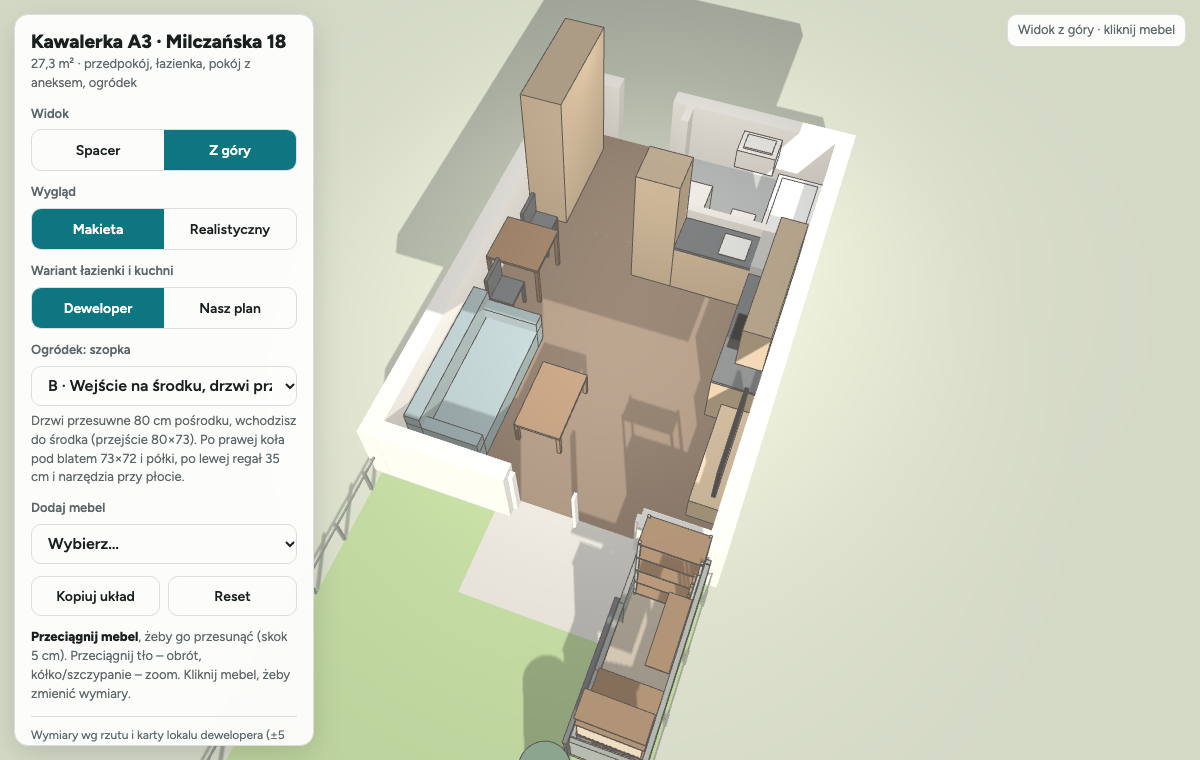
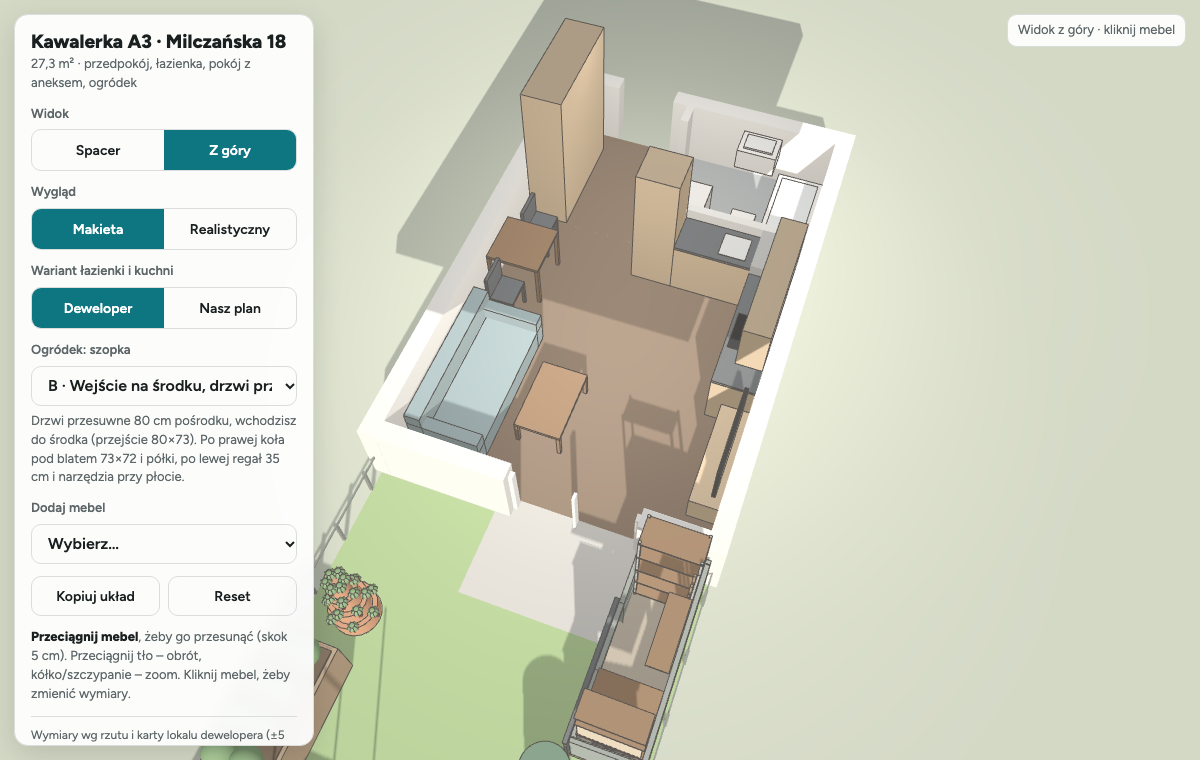
Dodaj wgrywanie układu

Changed region(s): [[0.1542, 0.7263, 0.3392, 1.0]]

diff --git a/index.html b/index.html
@@ -40,6 +40,7 @@ button:focus-visible,select:focus-visible,input:focus-visible{outline:2px solid 
 #toggle{display:none}
 #hud{position:fixed;right:14px;top:14px;background:var(--panel);border:1px solid var(--line);border-radius:10px;padding:6px 10px;font-size:13px;color:var(--mut);pointer-events:none}
 #copybox{display:none;width:100%;height:90px;font:12px monospace;margin-top:8px}
+#pastetxt{width:100%;height:90px;font:12px monospace;margin-top:8px;box-sizing:border-box}
 @media(max-width:700px){
  #panel{left:0;right:0;top:auto;bottom:0;width:auto;max-height:60%;border-radius:14px 14px 0 0;transform:translateY(calc(100% - 56px));transition:transform .25s}
  #panel.open{transform:none}
@@ -85,8 +86,12 @@ button:focus-visible,select:focus-visible,input:focus-visible{outline:2px solid 
   </div>
   <div class="row"><button class="b" id="sRot">Obróć 90°</button><button class="b" id="sDel">Usuń</button></div>
  </div>
- <div class="row" style="margin-top:12px"><button class="b" id="copy">Kopiuj układ</button><button class="b" id="reset">Reset</button></div>
+ <div class="row" style="margin-top:12px"><button class="b" id="copy">Kopiuj układ</button><button class="b" id="paste">Wklej układ</button><button class="b" id="reset">Reset</button></div>
+ <div class="row" style="margin-top:8px"><button class="b" id="dl">Pobierz plik układu</button><button class="b" id="ul">Wczytaj plik</button></div>
+ <input type="file" id="ulf" accept=".json,application/json" hidden>
  <textarea id="copybox" readonly aria-label="Układ do skopiowania"></textarea>
+ <div id="pasteBox" hidden><textarea id="pastetxt" placeholder="Wklej tu skopiowany układ (Ctrl+V / Cmd+V) i kliknij Zastosuj" aria-label="Układ do wklejenia"></textarea>
+  <div class="row" style="margin-top:6px"><button class="b" id="pasteOk">Zastosuj</button><button class="b" id="pasteNo">Anuluj</button></div></div>
  <p class="help" id="help"></p>
  <p class="note">Wymiary wg rzutu i karty lokalu dewelopera (±5 cm). Wysokość 2,55 m (podana przez właścicieli) – do potwierdzenia po odbiorze. Ścianki działowe i meble poglądowo; nie sprawdza konstrukcji.</p>
 </div>
@@ -206,7 +211,7 @@ R('nLu','Lustro 60×80','mirror',2.85,3.45,0,.02,.8,0xc9d6dc,'nasz');DEFAULT[DEF
 R('nDr','Grzejnik drabinkowy 50×125','ladder',3.59,4.09,0,.05,1.25,0xf4f4f2,'nasz');DEFAULT[DEFAULT.length-1].y=1.15; // 115 cm nad podłogą, 16 cm od prawej ściany
 // ogródek: wąska szopka 85×240 przy płocie sąsiada i elewacji, po LEWEJ po wyjściu na taras (zmiana 22.11.2026; wcześniej 160×200 po prawej)
 // między ościeżnicą drzwi tarasowych (x 3,42) a płotem (x 4,40) jest ok. 95 cm. Bez wchodzenia do środka – wszystko dostępne od frontu przez dwie pary drzwi.
-// rot 180: lokalne −x (wysoka ściana, 2,20) = przy płocie, dach spada na nasz ogródek (front 2,00), rynna + beczka od strony ogrodu.
+// rot 180: lokalne −x (wysoka ściana, 2,20) = przy płocie, dach spada na nasz ogródek (front 2,00), rynna od strony ogrodu.
 // pole doors: [z0,z1,'double'] w układzie lokalnym od krawędzi z0 – przy rot 180 liczone od końca szopki od ogrodu (z 9,40)
 // podłoga szopki na podeście 10 cm (y=0,10); wnętrze x 3,56…4,29 (73 cm), z 7,06…9,34
 R('swSzopa','Szopka wąska 85×240','shed',3.50,4.35,7.00,9.40,2.20,0x6f7a72);RX({shed:'boki'});RX({rot:180,fall:.20,doorH:1.85,doors:[[.08,1.20,'double'],[1.26,2.30,'double']]});
@@ -225,6 +230,11 @@ R('smPolka','Półki nad blatem (2×, gł. 30)','rack',3.56,4.29,9.04,9.34,.37,C
 R('smRegal','Regał 73×35 na ścianie od budynku','rack',3.56,4.29,7.06,7.41,1.80,COL.wood);RX({levels:[.16,.55,.95,1.35,1.75],posts:true,face:'+z',shed:'srodek'});
 R('smNarz','Narzędzia ogrodowe na ścianie przy płocie','tools',3.99,4.29,7.44,7.80,1.65,0x7a5a3a);RX({face:'-x',shed:'srodek'});
 R('smPolkaS','Półka nad wejściem przy płocie (gł. 25)','rack',4.04,4.29,7.80,8.60,.2,COL.wood);RX({y:1.7,levels:[1.75],face:'-x',shed:'srodek'});
+// ogródek: warzywnik (propozycja 22.11.2026, v:'all') – skrzynie podwyższone w L przy płocie po prawej (x=0) i tylnym, środek wolny (ok. 2,8×3,2 m trawy)
+// skrzynie 80 cm szer. (dostęp z jednej strony), 75 cm wys.; pole crop: 'pom' (pomidory na tyczkach) | 'pap' (papryki)
+R('gPom','Skrzynia podwyższona 240×80 – pomidory','raised',-.10,2.30,11.35,12.15,.75,0x8a6a4a);RX({crop:'pom'});
+R('gPap','Skrzynia podwyższona 200×80 – papryki','raised',-.10,.70,9.35,11.35,.75,0x8a6a4a);RX({crop:'pap'});
+R('gTrusk','Wieża truskawkowa Ø60, 4 poziomy','strawtower',.15,.75,8.45,9.05,1.10,0xb4643e);
 // wersje kuchni „Nasz plan” – osobno dla każdej ściany (listy rozwijane).
 // Nowa wersja = nowy wpis + meble z polem fr:'<id>' (ściana z lodówką) albo rtv:'<id>' (ściana od RTV)
 const FRIDGE_WALL=[
@@ -234,7 +244,7 @@ const RTV_WALL=[
 const SHEDS=[
  {id:'srodek',name:'B · Wejście na środku, drzwi przesuwne',desc:'Drzwi przesuwne 80 cm pośrodku, wchodzisz do środka (przejście 80×73). Po prawej koła pod blatem 73×72 i półki, po lewej regał 35 cm i narzędzia przy płocie.'},
  {id:'boki',name:'A · Dwoje drzwi dwuskrzydłowych',desc:'Bez wchodzenia, wszystko od frontu. Przy budynku narzędzia + regał 70×60, od ogrodu blat 118×73 z kołami pod spodem.'}];
-const CATALOG=[['Łóżko 160×200','bed',1.6,2.1,.5,COL.blue],['Łóżko 140×200','bed',1.4,2.1,.5,COL.blue],['Sofa rozkładana 200','sofa',2,.95,.85,COL.fabric],['Fotel','chair',.8,.8,.85,COL.fabric],['Biurko 120×60','table',1.2,.6,.75,COL.wood],['Stół 120×80','table',1.2,.8,.75,COL.wood],['Krzesło','chair',.44,.44,.85,COL.dark],['Szafa 100×60','wardrobe',1,.6,2.2,COL.oak],['Regał 80×35','wardrobe',.8,.35,1.9,COL.oak],['Komoda 120×45','tall',1.2,.45,.85,COL.oak],['Wyspa / barek 120×60','tall',1.2,.6,.95,COL.oak],['Dywan 160×230','rug',1.6,2.3,.01,0xc9c1b4],['Roślina','plant',.45,.45,1.3,0x4f7a43]];
+const CATALOG=[['Łóżko 160×200','bed',1.6,2.1,.5,COL.blue],['Łóżko 140×200','bed',1.4,2.1,.5,COL.blue],['Sofa rozkładana 200','sofa',2,.95,.85,COL.fabric],['Fotel','chair',.8,.8,.85,COL.fabric],['Biurko 120×60','table',1.2,.6,.75,COL.wood],['Stół 120×80','table',1.2,.8,.75,COL.wood],['Krzesło','chair',.44,.44,.85,COL.dark],['Szafa 100×60','wardrobe',1,.6,2.2,COL.oak],['Regał 80×35','wardrobe',.8,.35,1.9,COL.oak],['Komoda 120×45','tall',1.2,.45,.85,COL.oak],['Wyspa / barek 120×60','tall',1.2,.6,.95,COL.oak],['Dywan 160×230','rug',1.6,2.3,.01,0xc9c1b4],['Roślina','plant',.45,.45,1.3,0x4f7a43],['Skrzynia warzywna 120×80','raised',1.2,.8,.75,0x8a6a4a],['Wieża truskawkowa Ø60','strawtower',.6,.6,1.1,0xb4643e]];
 const addSel=document.getElementById('add');
 const frSel=document.getElementById('fridge');frSel.innerHTML=FRIDGE_WALL.map(k=>`<option value="${k.id}">${k.name}</option>`).join('');
 const shedSel=document.getElementById('shed');shedSel.innerHTML=SHEDS.map(k=>`<option value="${k.id}">${k.name}</option>`).join('');
@@ -251,12 +261,16 @@ try{let s=JSON.parse(localStorage.getItem(KEY));
   // starsze -> v10: „Nasz plan” (łazienka + kuchnia) z DEFAULT, wariant domyślnych mebli z DEFAULT; reszta mebli zostaje na swoich miejscach
   if(s&&s.items)s.items.forEach(it=>{const d=DEFAULT.find(x=>x.id===it.id);if(d)it.v=d.v});
   if(s&&s.items)s.items=s.items.filter(it=>it.v!=='nasz').concat(JSON.parse(JSON.stringify(DEFAULT.filter(d=>d.v==='nasz'))))}
- if(s&&s.items)s.items=s.items.filter(it=>!/^sz(opa|Kola|Blat|Polka|Regal|Narz)$/.test(it.id)); // pierwsza wersja szopki (160×200 po prawej) – zastąpiona
- if(s&&s.items){DEFAULT.forEach(d=>{if(!s.items.some(i=>i.id===d.id))s.items.push(JSON.parse(JSON.stringify(d)))}); // nowe meble z DEFAULT (np. nowa wersja kuchni)
+ if(s&&s.items)state=fixState(s)}catch(e){}
+// porządkuje zapisany stan (z localStorage albo z pliku): usuwa nieaktualne meble/wersje, dopisuje nowe z DEFAULT
+function fixState(s){
+ s.items=s.items.filter(it=>!/^sz(opa|Kola|Blat|Polka|Regal|Narz)$/.test(it.id)); // pierwsza wersja szopki (160×200 po prawej) – zastąpiona
+ DEFAULT.forEach(d=>{if(!s.items.some(i=>i.id===d.id))s.items.push(JSON.parse(JSON.stringify(d)))}); // nowe meble z DEFAULT (np. nowa wersja kuchni)
   if(!FRIDGE_WALL.some(k=>k.id===s.fridge))s.fridge='slupek';if(!RTV_WALL.some(k=>k.id===s.rtv))s.rtv='w2x60b';if(!SHEDS.some(k=>k.id===s.shed))s.shed='srodek';
   s.items=s.items.filter(it=>(!it.fr||FRIDGE_WALL.some(k=>k.id===it.fr))&&(!it.rtv||RTV_WALL.some(k=>k.id===it.rtv))); // usunięte wersje kuchni
-  s.items.forEach(it=>{const d=DEFAULT.find(x=>x.id===it.id);if(d&&d.shed)it.shed=d.shed});state=s}}catch(e){}
-const save=()=>{try{localStorage.setItem(KEY,JSON.stringify(state))}catch(e){}};
+  s.items.forEach(it=>{const d=DEFAULT.find(x=>x.id===it.id);if(d&&d.shed)it.shed=d.shed});return s}
+let saveWarned=false;
+const save=()=>{try{localStorage.setItem(KEY,JSON.stringify(state))}catch(e){if(!saveWarned){saveWarned=true;hud.textContent='Przeglądarka nie zapisuje zmian – użyj „Pobierz plik układu”'}}};
 
 const furn=new THREE.Group();scene.add(furn);
 function build(it){
@@ -305,6 +319,16 @@ function build(it){
    for(let i=0;i<n;i++){const yy=y+.03+i*(h-.06)/(n-1);b(.03,w-.03,yy-.011,yy+.011,d*.3,d*.7)}}break;
   case'rug':b(0,w,0,.012,0,d);break;
   case'plant':b(w*.2,w*.8,0,.4,d*.2,d*.8,M(0x8a6f55));{const s=new THREE.Mesh(new THREE.SphereGeometry(w*.55,16,12),c);s.position.y=.4+w*.6;s.castShadow=true;g.add(s)}break;
+  case'raised':{b(0,w,0,h-.03,0,d);b(.05,w-.05,h-.03,h-.01,.05,d-.05,M(0x3a2c20));const lx=w>=d,L=lx?w:d,n=Math.max(1,Math.round(L/(it.crop==='pom'?.48:.4)));
+   for(let k=0;k<n;k++)for(let r=0;r<(it.crop==='pom'?1:2);r++){const t=L*(k+.5)/n,u=it.crop==='pom'?.5:(r?.7:.3),px=lx?t:w*u,pz=lx?d*u:t; // rośliny: pomidory w 1 rzędzie, papryki w 2
+    if(it.crop==='pom'){b(px-.01,px+.01,h,h+1.6,pz-.01,pz+.01,M(0xc2a56a));const s=new THREE.Mesh(new THREE.CylinderGeometry(.14,.2,1.2,10),M(0x4f7a43));s.position.set(px-w/2,h+.65,pz-d/2);g.add(s);
+     [.4,.75,1.05].forEach((y,i)=>{const f=new THREE.Mesh(new THREE.SphereGeometry(.045,10,8),M(0xc22a1a));f.position.set(px-w/2+(i%2?.15:-.15),h+y,pz-d/2+.1);g.add(f)})}
+    else{const s=new THREE.Mesh(new THREE.SphereGeometry(.18,12,10),M(0x4f7a43));s.position.set(px-w/2,h+.22,pz-d/2);g.add(s);
+     const f=new THREE.Mesh(new THREE.SphereGeometry(.04,10,8),M([0xc22a1a,0xe8b81c,0x5f8f2a][(k+r)%3]));f.position.set(px-w/2+.12,h+.2,pz-d/2+.12);g.add(f)}}}break;
+  case'strawtower':{const n=4,r0=Math.min(w,d)/2,th=h/n; // piętra coraz węższe, truskawki na obwodzie
+   for(let k=0;k<n;k++){const r=r0*(1-k*.2),t=new THREE.Mesh(new THREE.CylinderGeometry(r,r,th,20),c);t.position.y=k*th+th/2;g.add(t);
+    for(let a=0;a<6;a++){const an=a/6*Math.PI*2+k*.5,l=new THREE.Mesh(new THREE.SphereGeometry(.07,8,6),M(0x4f7a43));l.position.set(Math.cos(an)*(r-.02),(k+1)*th+.02,Math.sin(an)*(r-.02));g.add(l);
+     if(a%2===0){const f=new THREE.Mesh(new THREE.SphereGeometry(.025,8,6),M(0xd0201c));f.position.set(Math.cos(an)*(r+.03),(k+1)*th-.04,Math.sin(an)*(r+.03));g.add(f)}}}}break;
   case'shed':buildShed(it,g,{wall:c,wallIn:c,roof:M(0x4d5256),floor:M(0x9a8a72),door:M(0x56605a),glass:mat.glass,gutter:M(0x8f969b),barrel:M(0x3f5e46),trim:M(0x3d4246)});break;
   case'tires':{const n=Math.max(1,Math.round(h/.225)),th=h/n,r=Math.min(w,d)/2-.005,y0=it.y||0; // koła leżące w stosie
    for(let k=0;k<n;k++){const yc=y0+k*th+th/2,t=new THREE.Mesh(new THREE.CylinderGeometry(r,r,th-.01,32),c);t.position.y=yc;g.add(t);
@@ -344,7 +368,7 @@ function shedRects(it){const w=it.w,d=it.d,t=.06,X0=-w/2,X1=w/2,Z0=-d/2,Z1=d/2,a
 // ---------- szopka ogrodowa (wspólna dla makiety i trybu realistycznego) ----------
 // Lokalnie: −x = ściana przy płocie sąsiada (wysoka, it.h), +x = ściana z drzwiami (niska, it.h−fall); dach spada w stronę +x.
 // Pola: fall (spadek dachu), doors [[z0,z1,'double'|'z0'|'z1' (strona zawiasów)],…] od krawędzi −z (albo stare door [z0,z1]), doorH, win [z0,z1,y0,y1].
-// Rynna i beczka przy końcu z0 (lokalnie), okap mały (3 cm) przy z1.
+// Rynna przy końcu z0 (lokalnie), okap mały (3 cm) przy z1.
 // Z góry: ściany obniżone (×0,42) i bez dachu, jak w mieszkaniu.
 function buildShed(it,g,m,real){
  const w=it.w,d=it.d,hi=it.h,lo=hi-(it.fall!=null?it.fall:.25),t=.06,X0=-w/2,X1=w/2,Z0=-d/2,Z1=d/2,walk=mode==='walk';
@@ -378,8 +402,7 @@ function buildShed(it,g,m,real){
  if(walk){const rt=.06,a=Math.atan((hi-lo)/w),xa=X0-ovL,xc=(xa+xb)/2,zm=(Z0-ov0+Z1+ov1)/2; // dach (przy płocie 4 cm okapu, od tarasu 15 cm)
   const rf=add(boxUV(new THREE.BoxGeometry((xb-xa)/Math.cos(a),rt,d+ov0+ov1)),m.roof,xc,top(xc)+rt/2/Math.cos(a),zm,g);rf.rotation.z=-a;
   const gy=top(xb)-.05,gt=add(new THREE.CylinderGeometry(.045,.045,d+ov0+ov1,16),m.gutter,gx,gy,zm,g);gt.rotation.x=Math.PI/2; // rynna
-  add(new THREE.CylinderGeometry(.035,.035,gy-.75,12),m.gutter,gx,(gy+.75)/2,Z0-.08,g)} // rura spustowa
- add(new THREE.CylinderGeometry(.28,.26,.75,32),m.barrel,gx-.05,.375,Z0-.33,g); // beczka na deszczówkę
+  add(new THREE.CylinderGeometry(.035,.035,gy-.05,12),m.gutter,gx,(gy+.05)/2,Z0-.08,g)} // rura spustowa
 }
 
 // =====================================================================
@@ -524,6 +547,8 @@ function makeMats(){
   bedding:RM({color:0xf4f2ee,map:T.fabric,roughness:.95,envMapIntensity:.6}),duvet:RM({color:0xdcd8cf,map:T.fabric,bumpMap:T.fabric,bumpScale:.002,roughness:.95,envMapIntensity:.6}),
   pot:RM({color:0xe6e1d8,roughness:.75}),soil:RM({color:0x2a2018,roughness:1}),stem:RM({color:0x4e6b2e,roughness:.8}),
   leaf:[0x2f5a26,0x3d6e2d,0x284f22].map(c=>RM({color:c,roughness:.5,side:D})),
+  planter:RM({map:T.oak,color:0x8f7356,roughness:.85,envMapIntensity:.5}),terra:RM({color:0xb4643e,roughness:.85}),cane:RM({color:0xc2a56a,roughness:.7}),
+  fruit:[0xc22a1a,0xe0a91a,0x5f8f2a,0xd9541c].map(c=>RM({color:c,roughness:.3,envMapIntensity:.8})),straw:RM({color:0xd0201c,roughness:.3,envMapIntensity:.8}),
   tvScreen:RM({color:0x050607,roughness:.04,envMapIntensity:1}),tvBody:RM({color:0x141516,roughness:.4}),
   mirror:RM({color:0xffffff,metalness:1,roughness:0,envMapIntensity:1}),radiator:RM({color:0xf3f3f1,roughness:.3,metalness:.2}),
   tray:RM({color:0xf2f1ed,roughness:.45}),blackMetal:RM({color:0x1d1d1f,roughness:.5,metalness:.5}),
@@ -563,6 +588,12 @@ function plantInto(p,x,y,z,h,r,wd=.45){const pr=Math.max(.05,wd*.32),ph=Math.min
   const tg=new THREE.Group();tg.rotation.x=.1+r()*.6;sg.add(tg);const sl=lh*(.35+r()*.55);
   mesh(new THREE.CylinderGeometry(.003,.005,sl,5),MAT.stem,0,sl/2,0,tg);
   const len=Math.min(.34,.1+lh*.22)*(.7+r()*.5),lf=mesh(leafGeo(len,len*(.34+r()*.16),r),MAT.leaf[Math.floor(r()*3)],0,sl,0,tg);lf.rotation.set(.25+r()*.7,0,(r()-.5)*.6)}}
+// krzaczek bez doniczki (skrzynie warzywne, wieża truskawkowa): n liści z łodyżkami rozchodzącymi się od punktu; tilt = odchylenie od pionu
+function bushInto(p,x,y,z,lh,r,n,len,t0=.1,t1=.7){
+ for(let i=0;i<n;i++){const sg=new THREE.Group();sg.position.set(x,y,z);sg.rotation.y=r()*Math.PI*2;p.add(sg);
+  const tg=new THREE.Group();tg.rotation.x=t0+r()*(t1-t0);sg.add(tg);const sl=lh*(.35+r()*.65);
+  mesh(new THREE.CylinderGeometry(.003,.005,sl,5),MAT.stem,0,sl/2,0,tg);
+  const ln=len*(.7+r()*.5),lf=mesh(leafGeo(ln,ln*(.38+r()*.16),r),MAT.leaf[Math.floor(r()*3)],0,sl,0,tg);lf.rotation.set(.25+r()*.7,0,(r()-.5)*.6)}}
 function basinTop(p,X0,X1,Z0,Z1,top,tk){const L=X1-X0,D=Z1-Z0,zc=(Z0+Z1)/2+.02,rx=L*.36,rz=D*.29;
  const sh=new THREE.Shape();sh.moveTo(X0,-Z1);sh.lineTo(X1,-Z1);sh.lineTo(X1,-Z0);sh.lineTo(X0,-Z0);sh.lineTo(X0,-Z1);
  const ho=new THREE.Path();ho.absellipse(0,-zc,rx,rz,0,Math.PI*2,true);sh.holes.push(ho);
@@ -706,6 +737,30 @@ function buildReal(it){
    bx(X0+.07,X1-.07,y+h*.5,y+h*.78,zt+.013,zt+.032,fabricFor(0xd9d2c5),.012);break} // ręcznik
   case'rug':bx(X0,X1,0,.012,Z0,Z1,rugFor(it.color),.004).castShadow=false;break;
   case'plant':plantInto(P,0,0,0,h,rnd,Math.min(L,D));break;
+  case'raised':{const tk=.035,pl=3,ph=(h-.02)/pl,pm=MAT.planter; // skrzynia z desek (3 deski na wysokość), słupki w narożnikach, ziemia 3 cm pod krawędzią
+   for(let k=0;k<pl;k++){const y0=k*ph+.004,y1=(k+1)*ph-.004;bx(X0,X1,y0,y1,Z1-tk,Z1,pm,.004);bx(X0,X1,y0,y1,Z0,Z0+tk,pm,.004);bx(X0,X0+tk,y0,y1,Z0+tk,Z1-tk,pm,.004);bx(X1-tk,X1,y0,y1,Z0+tk,Z1-tk,pm,.004)}
+   [[X0,Z0],[X1,Z0],[X0,Z1],[X1,Z1]].forEach(([x,z])=>bx(x-(x<0?-.035:.07),x+(x<0?.07:-.035),0,h,z-(z<0?-.035:.07),z+(z<0?.07:-.035),pm,.004));
+   bx(X0-.01,X1+.01,h-.02,h,Z0-.01,Z0+tk+.02,pm,.004);bx(X0-.01,X1+.01,h-.02,h,Z1-tk-.02,Z1+.01,pm,.004); // listwy na krawędzi
+   bx(X0+tk,X1-tk,h-.07,h-.04,Z0+tk,Z1-tk,MAT.soil).castShadow=false;const ys=h-.04;
+   if(it.crop==='pom'){const n=Math.max(1,Math.round(L/.48)); // pomidory w 1 rzędzie, na tyczkach 1,6 m
+    for(let k=0;k<n;k++){const x=X0+L*(k+.5)/n,z=0;cyl(.009,.011,1.6,x,ys,z-.05,MAT.cane,8);cyl(.008,.011,1.35,x,ys,z,MAT.stem,6);
+     for(let y=.12;y<1.4;y+=.2)bushInto(P,x,ys+y,z,.12,rnd,4,.17-.05*y/1.4,.9,1.45);bushInto(P,x,ys+1.35,z,.1,rnd,4,.12,.2,.8);
+     for(let q=0;q<3;q++){const yy=ys+.35+q*.32+rnd()*.08,sx=(rnd()-.5)*.24,sz=.06+rnd()*.08;
+      for(let f=0;f<3+Math.floor(rnd()*3);f++){const fr=.024+rnd()*.012,fm=MAT.fruit[q===2&&f>1?2:(rnd()<.2?3:0)];
+       const o=add(new THREE.SphereGeometry(fr,14,10),fm,x+sx+(rnd()-.5)*.07,yy-f*.025-rnd()*.03,(rnd()<.5?sz:-sz)+(rnd()-.5)*.05);o.scale.y=.85}}}}
+   else{const n=Math.max(1,Math.round(L/.4)),rows=D>.55?2:1; // papryki: niższe krzaczki w 2 rzędach, owoce wiszące
+    for(let k=0;k<n;k++)for(let rw=0;rw<rows;rw++){const x=X0+L*(k+.5)/n+(rw?.1:-.1),z=rows>1?(rw?D*.2:-D*.2):0;
+     cyl(.006,.009,.45,x,ys,z,MAT.stem,6);bushInto(P,x,ys+.12,z,.3,rnd,10,.12,.4,1.2);bushInto(P,x,ys+.4,z,.1,rnd,5,.1,.1,.6);
+     const fm=MAT.fruit[[0,1,2,0,1][(k+rw*2)%5]];for(let f=0;f<2+Math.floor(rnd()*2);f++){const a=rnd()*Math.PI*2,o=add(new THREE.SphereGeometry(.03,14,10),fm,x+Math.cos(a)*.09,ys+.22+rnd()*.12,z+Math.sin(a)*.09);o.scale.set(1,1.7,1)}}}
+   break}
+  case'strawtower':{const n=4,r0=Math.min(L,D)/2,th=h/n; // wieża: 4 piętra z terakoty coraz węższe, truskawki na obwodzie, owoce przewieszone przez krawędź
+   for(let k=0;k<n;k++){const r=r0*(1-k*.2),y0=k*th,rin=k<n-1?r0*(1-(k+1)*.2):0;
+    const pr=[[rin*.95,y0+th-.03],[r-.012,y0+th-.03],[r-.012,y0+th],[r,y0+th],[r-.02,y0+.01],[r-.03,y0]].map(([a,b])=>new THREE.Vector2(Math.max(.001,a),b));
+    add(new THREE.LatheGeometry(pr.reverse(),40),MAT.terra);add(new THREE.CylinderGeometry(r-.02,r-.02,.012,32),MAT.soil,0,y0+th-.035,0).castShadow=false;
+    const m=Math.max(4,Math.round(2*Math.PI*(r+rin)/2/.17));
+    for(let a=0;a<m;a++){const an=(a+k*.5)/m*Math.PI*2,rr=(r+rin)/2+.01,x=Math.cos(an)*rr,z=Math.sin(an)*rr;bushInto(P,x,y0+th-.03,z,.06,rnd,5,.08,.5,1.3);
+     if(a%2===0)for(let f=0;f<2;f++){const ra=r+.02+f*.015,o=add(new THREE.ConeGeometry(.013,.032,10),MAT.straw,Math.cos(an+f*.18)*ra,y0+th-.05-f*.03,Math.sin(an+f*.18)*ra);o.rotation.x=Math.PI}}}
+   break}
   case'shed':buildShed(it,g,{wall:MAT.shedOut,wallIn:MAT.shedIn,roof:MAT.roofE,floor:MAT.shedIn,door:MAT.shedOut,glass:MAT.glass,gutter:MAT.fence,barrel:matFor(0x3c5a44),trim:MAT.frame,handle:MAT.handle},true);break;
   case'tires':{const n=Math.max(1,Math.round(h/.225)),th=h/n,r=Math.min(L,D)/2-.005,y0=it.y||0,rr=.229; // koło 18": felga Ø ok. 46 cm
    for(let k=0;k<n;k++){const yy=y0+k*th,pr=[[rr,.012],[r-.025,0],[r-.004,.025],[r,th/2],[r-.004,th-.025],[r-.025,th],[rr,th-.012]].map(([a,b])=>new THREE.Vector2(a,b));
@@ -803,7 +858,7 @@ function makeReal(){
   for(let i=0;i<p.count;i++){const x=p.getX(i),y=p.getY(i),z=p.getZ(i),k=1+.16*Math.sin(3.1*x/r+q)*Math.sin(2.7*y/r+1+q)*Math.sin(3.3*z/r+2);p.setXYZ(i,x*k,y*k*.9,z*k)}geo.computeVertexNormals();return boxUV(geo)};
  const tree=(x,z,s,seed)=>{const r=rngOf(seed);mesh(new THREE.CylinderGeometry(.07*s,.1*s,1.8*s,10),MAT.bark,x,.9*s,z,base);
   for(let i=0;i<5;i++)mesh(foliage((.55+r()*.35)*s,seed+i),MAT.leaves,x+(r()-.5)*.9*s,(2.1+r()*1.1)*s,z+(r()-.5)*.9*s,base)};
- tree(3.6,11.4,1.1,'t1');const tr=rngOf('las');
+ const tr=rngOf('las');
  for(let i=0;i<34;i++){const a=tr()*Math.PI*1.25-Math.PI*.12,d=13+tr()*22,x=2.1+Math.cos(a)*d,z=7+Math.sin(a)*d;if(z<7.5)continue;tree(x,z,1.3+tr()*1.4,'f'+i)}
  // stolik i dwa krzesła na tarasie
  mesh(new THREE.CylinderGeometry(.3,.3,.02,32),MAT.fence,2.3,.72,7.55,base);mesh(new THREE.CylinderGeometry(.02,.02,.7,10),MAT.fence,2.3,.36,7.55,base);mesh(new THREE.CylinderGeometry(.2,.2,.02,24),MAT.fence,2.3,.01,7.55,base);
@@ -887,7 +942,35 @@ document.getElementById('sDel').onclick=()=>{const it=selItem();if(it){it.hidden
 addSel.onchange=()=>{const c=CATALOG[addSel.value];if(!c)return;const id='u'+Date.now();
  state.items.push({id,name:c[0],kind:c[1],w:c[2],d:c[3],h:c[4],color:c[5],x:2.1,z:4.4,rot:0,v:'all'});selId=id;addSel.value='';setMode('top');rebuild()};
 document.getElementById('reset').onclick=()=>{state={bath:'nasz',fridge:'slupek',rtv:'w2x60b',shed:'srodek',items:JSON.parse(JSON.stringify(DEFAULT))};selId=null;markBath();rebuild()};
-document.getElementById('copy').onclick=()=>{const txt=JSON.stringify({wariant:state.bath,kuchnia:state.bath==='nasz'?{sciana_lodowka:(FRIDGE_WALL.find(k=>k.id===(state.fridge||'slupek'))||{}).name,sciana_rtv:(RTV_WALL.find(k=>k.id===(state.rtv||'w2x60b'))||{}).name}:undefined,szopka:(SHEDS.find(k=>k.id===(state.shed||'srodek'))||{}).name,meble:state.items.filter(visible).map(i=>({nazwa:i.name,x_cm:Math.round(i.x*100),z_cm:Math.round(i.z*100),szer:Math.round(i.w*100),gleb:Math.round(i.d*100),wys:Math.round(i.h*100),obrot:i.rot}))});
+// plik układu: pełny stan (warianty + wszystkie meble), do zachowania na dysku i wczytania w innej przeglądarce / na innym komputerze
+document.getElementById('dl').onclick=()=>{const d=new Date(),p=n=>String(n).padStart(2,'0'),
+  blob=new Blob([JSON.stringify({plik:'a3-milczanska-uklad',wersja:10,zapisano:d.toISOString(),stan:state},null,1)],{type:'application/json'}),
+  a=document.createElement('a');a.href=URL.createObjectURL(blob);a.download=`uklad-A3-${d.getFullYear()}-${p(d.getMonth()+1)}-${p(d.getDate())}_${p(d.getHours())}${p(d.getMinutes())}.json`;
+ document.body.appendChild(a);a.click();a.remove();setTimeout(()=>URL.revokeObjectURL(a.href),1000);hud.textContent='Plik układu pobrany'};
+const ulf=document.getElementById('ulf');document.getElementById('ul').onclick=()=>ulf.click();
+// przyjmuje plik układu ({stan}) albo tekst z „Kopiuj układ” ({wariant,meble:[{id,rodzaj,nazwa,x_cm,…}]}); zwraca opis do HUD albo rzuca błąd
+function applyLayout(t){const j=JSON.parse(t);
+ if(j.stan||Array.isArray(j.items)){const s=j.stan||j;if(!Array.isArray(s.items))throw 0;state=fixState(s);selId=null;markBath();rebuild();return'Wczytano układ'}
+ if(!Array.isArray(j.meble))throw 0;
+ if(j.wariant==='dev'||j.wariant==='nasz')state.bath=j.wariant;const byName=(L,n)=>(L.find(k=>k.name===n)||{}).id;
+ if(j.kuchnia){state.fridge=byName(FRIDGE_WALL,j.kuchnia.sciana_lodowka)||state.fridge;state.rtv=byName(RTV_WALL,j.kuchnia.sciana_rtv)||state.rtv}
+ if(j.szopka)state.shed=byName(SHEDS,j.szopka)||state.shed;
+ const used=new Set();let added=0;
+ j.meble.forEach((m,i)=>{let it=state.items.find(x=>x.id===m.id&&!used.has(x))||state.items.find(x=>visible(x)&&x.name===m.nazwa&&!used.has(x))||state.items.find(x=>x.name===m.nazwa&&!used.has(x)&&(!m.rodzaj||x.kind===m.rodzaj));
+  if(!it){const c=CATALOG.find(c=>c[1]===m.rodzaj);if(!m.rodzaj)return;it={id:m.id||('w'+Date.now()+i),name:m.nazwa||(c?c[0]:m.rodzaj),kind:m.rodzaj,color:c?c[5]:0x9a9a9a,v:'all'};state.items.push(it);added++}
+  used.add(it);it.hidden=false;const n=(v,o)=>typeof v==='number'?v/100:o;
+  Object.assign(it,{x:n(m.x_cm,it.x),z:n(m.z_cm,it.z),w:n(m.szer,it.w),d:n(m.gleb,it.d),h:n(m.wys,it.h),rot:typeof m.obrot==='number'?m.obrot:(it.rot||0)})});
+ state.items.forEach(x=>{if(visible(x)&&!used.has(x))x.hidden=true}); // meble usunięte w skopiowanym układzie
+ selId=null;markBath();rebuild();return'Wklejono układ (mebli: '+used.size+(added?', nowe: '+added:'')+')'}
+ulf.onchange=()=>{const f=ulf.files[0];ulf.value='';if(!f)return;f.text().then(t=>{applyLayout(t);hud.textContent='Wczytano układ: '+f.name})
+ .catch(()=>alert('To nie jest plik układu z tego modelu.'))};
+const pasteBox=document.getElementById('pasteBox'),pasteTxt=document.getElementById('pastetxt');
+document.getElementById('paste').onclick=()=>{pasteBox.hidden=false;pasteTxt.value='';pasteTxt.focus();
+ if(navigator.clipboard&&navigator.clipboard.readText)navigator.clipboard.readText().then(t=>{if(!pasteTxt.value&&/^\s*\{/.test(t))pasteTxt.value=t}).catch(()=>{})};
+document.getElementById('pasteNo').onclick=()=>{pasteBox.hidden=true};
+document.getElementById('pasteOk').onclick=()=>{try{hud.textContent=applyLayout(pasteTxt.value);pasteBox.hidden=true}
+ catch(e){alert('Nie rozpoznaję tego tekstu. Wklej cały tekst z „Kopiuj układ” (zaczyna się od { i kończy na }) albo zawartość pliku układu.')}};
+document.getElementById('copy').onclick=()=>{const txt=JSON.stringify({wariant:state.bath,kuchnia:state.bath==='nasz'?{sciana_lodowka:(FRIDGE_WALL.find(k=>k.id===(state.fridge||'slupek'))||{}).name,sciana_rtv:(RTV_WALL.find(k=>k.id===(state.rtv||'w2x60b'))||{}).name}:undefined,szopka:(SHEDS.find(k=>k.id===(state.shed||'srodek'))||{}).name,meble:state.items.filter(visible).map(i=>({id:i.id,rodzaj:i.kind,nazwa:i.name,x_cm:Math.round(i.x*100),z_cm:Math.round(i.z*100),szer:Math.round(i.w*100),gleb:Math.round(i.d*100),wys:Math.round(i.h*100),obrot:i.rot}))});
  const box=document.getElementById('copybox');box.value=txt;
  navigator.clipboard.writeText(txt).then(()=>{hud.textContent='Układ skopiowany – wklej go w czacie'}).catch(()=>{box.style.display='block';box.select()})};
 

diff --git a/tools/screenshot.py b/tools/screenshot.py
@@ -1,7 +1,7 @@
 """Zrzuty ekranu modelu do sprawdzenia zmian.
 Użycie: pip install playwright && playwright install chromium
         python3 tools/screenshot.py
-Wynik: shots/spacer.png, shots/z_gory.png, shots/z_gory_deweloper.png, shots/szopka.png
+Wynik: shots/spacer.png, shots/z_gory.png, shots/z_gory_deweloper.png, shots/szopka.png, shots/warzywnik.png
        oraz tryb realistyczny: shots/real_*.png (python3 tools/screenshot.py real – tylko te)
 """
 import asyncio, pathlib, sys
@@ -36,7 +36,8 @@ async def real(pg):
     views = [("real_wejscie", 1.25, .8, 3.1416, -.05), ("real_pokoj", 2.7, 6.3, .25, -.08),
              ("real_kuchnia", 1.4, 4.9, -0.75, -.12), ("real_lazienka", 2.2, .5, -2.45, -.2),
              ("real_lustro", 3.3, 1.35, 0.15, -.1), ("real_ogrod", 2.4, 10.5, 0, .02),
-             ("real_szopka", 1.6, 10.6, -.76, -.1), ("real_szopka_wejscie", 2.6, 8.2, -1.5708, -.3), ("real_szopka_blat", 3.95, 8.0, 3.1416, -.45), ("real_szopka_regal", 3.95, 8.4, 0, -.25)]
+             ("real_szopka", 1.6, 10.6, -.76, -.1), ("real_szopka_wejscie", 2.6, 8.2, -1.5708, -.3), ("real_szopka_blat", 3.95, 8.0, 3.1416, -.45), ("real_szopka_regal", 3.95, 8.4, 0, -.25),
+             ("real_warzywnik", 2.9, 7.6, 2.62, -.28), ("real_truskawki", 1.5, 8.2, 2.2, -.35)]
     for name, x, z, yaw, pitch in views:
         await pg.evaluate(f"A3.view({x},{z},{yaw},{pitch})")
         await pg.wait_for_timeout(900)
@@ -66,6 +67,9 @@ async def mock(pg):
     await pg.evaluate("A3.view(1.6,10.6,-.76,-.1)")
     await pg.wait_for_timeout(500)
     await pg.screenshot(path=OUT / "szopka.png")
+    await pg.evaluate("A3.view(2.9,7.6,2.62,-.28)")
+    await pg.wait_for_timeout(500)
+    await pg.screenshot(path=OUT / "warzywnik.png")
     await pg.evaluate("A3.view(1.25,.8,3.1416,-.05)")
     await pg.click("#mode button[data-m=top]")
     await pg.wait_for_timeout(800)

diff --git a/CLAUDE.md b/CLAUDE.md
@@ -49,13 +49,17 @@ na etapie koncepcji, przed decyzjami instalacyjnymi. Interfejs i komentarze po p
 - Pola opcjonalne mebla: `y` (wys. dolnej krawędzi: szafki wiszące, lustro, drabinka), `mods` (linie podziału frontów), `hob:2` (płyta 2-palnikowa), `fr` (wariant lodówki), `sink`, `face:'+x'` (front szafy od +x).
 - `build(it)` rysuje mebel wg `kind`: sofa, bed, table, chair, wardrobe, tall, upper, sinkc, cook, tv, sink,
   bath, wc, washer, fridge, shower, showerq (półokrągły, narożnik w lokalnym +x,+z), ladder (grzejnik drabinkowy), mirror (lustro; oba z opcjonalnym `y` = wys. dolnej krawędzi), rug, plant (domyślnie prostopadłościan),
-  shed (szopka, `buildShed` wspólny dla obu trybów), tires (stos kół), bench (blat warsztatowy), rack (półki/regał: `levels` = wys. półek, `posts`), tools (narzędzia na listwie). Nowy rodzaj = nowy `case`.
+  shed (szopka, `buildShed` wspólny dla obu trybów), tires (stos kół), bench (blat warsztatowy), rack (półki/regał: `levels` = wys. półek, `posts`), tools (narzędzia na listwie), raised (skrzynia warzywna, pole `crop`: 'pom' pomidory na tyczkach | 'pap' papryki), strawtower (wieża truskawkowa, 4 piętra). Nowy rodzaj = nowy `case`.
 - `CATALOG` – meble do dodania z listy: `[nazwa, kind, w, d, h, kolor]`.
 - Stan zapisuje się w `localStorage` (klucz `a3-milczanska-uklad-v10`; v1–v9 migrują się z zachowaniem pozycji, przy migracji meble łazienki „nasz” biorą się z `DEFAULT`). Po zmianie `DEFAULT` użyj „Reset”
   albo podbij wersję klucza.
 - Sterowanie: Spacer (WASD/strzałki + przeciąganie myszą; telefon: lewa połowa = chodzenie, prawa = rozglądanie),
   Z góry (przeciąganie mebla, skok 5 cm; tło = obrót; kółko/szczypanie = zoom; R = obrót mebla).
-- „Kopiuj układ” daje JSON z pozycjami w cm, do wklejenia w rozmowie.
+- „Kopiuj układ” daje JSON z pozycjami w cm (plus `id`, `rodzaj`), do wklejenia w rozmowie. „Wklej układ” (`applyLayout`) przyjmuje ten tekst albo plik układu:
+  meble dopasowuje po `id`, potem po nazwie; brakujące tworzy wg `rodzaj`, widoczne meble spoza listy ukrywa (jak „Usuń”).
+- „Pobierz plik układu” zapisuje pełny stan do `uklad-A3-RRRR-MM-DD_GGMM.json` (`{plik,wersja,zapisano,stan}`), „Wczytaj plik” go przywraca.
+  Wczytany stan przechodzi przez `fixState(s)` – tę samą normalizację co stan z `localStorage` (usunięte wersje, nowe meble z `DEFAULT`).
+  Gdy `localStorage` nie działa, HUD podpowiada użycie pliku.
 
 ## Tryb realistyczny („Wygląd: Makieta | Realistyczny”)
 - Ten sam `state.items` rysowany drugim builderem `buildReal(it)`; `rebuild()` wybiera builder wg `style`. Edycja, warianty i kolizje wspólne.
@@ -99,7 +103,7 @@ na etapie koncepcji, przed decyzjami instalacyjnymi. Interfejs i komentarze po p
 
 - Ogródek „szopka” (22.11.2026, koncepcja, v:'all'): wąska 85×240 przy płocie sąsiada i elewacji, po LEWEJ po wyjściu na taras (x 3,50–4,35, z 7,00–9,40).
   Pierwsza wersja (160×200 po prawej, id `sz*`) odrzucona – przy wczytaniu usuwana z zapisanego stanu; obecne meble mają id `sw*`.
-  Szopka ma `rot:180`: lokalne −x (wysoka ściana 2,20) stoi przy płocie, dach spada na nasz ogródek (front 2,00, pole `fall`), rynna + beczka od strony ogrodu.
+  Szopka ma `rot:180`: lokalne −x (wysoka ściana 2,20) stoi przy płocie, dach spada na nasz ogródek (front 2,00, pole `fall`), rynna od strony ogrodu (bez beczki).
   Bez wchodzenia do środka: front od strony ogródka z dwoma drzwiami dwuskrzydłowymi (pole `doors` [[z0,z1,'double'|'z0'|'z1']] lokalnie od z0, czyli przy rot 180 od końca od ogrodu):
   przy budynku (z 7,10–8,14) narzędzia na listwie na ścianie od budynku + półka 1,75 + regał 70×60 z 5 półkami;
   od ogrodu (z 8,20–9,32) blat warsztatowy 118×73 na 1,06 (96 cm nad podłogą szopki) z tablicą narzędziową i 2 półkami przy płocie (1,55 i 1,85), pod blatem koła 4× 225/40 R18 w stosie (z 8,67–9,32) i skrzynka.
@@ -108,6 +112,10 @@ na etapie koncepcji, przed decyzjami instalacyjnymi. Interfejs i komentarze po p
   przejście 80×73; od ogrodu blat 73×72 nad kołami (front do przejścia) + 2 półki na ścianie od ogrodu; od budynku regał 73×35 na ścianie od budynku + narzędzia na ścianie przy płocie + półka nad wejściem.
   Wnętrze 73 cm szerokości (koło Ø64). Podłoga na podeście 10 cm. Kolizje szopki = ściany (`shedRects`). Z góry: ściany ×0,42, bez dachu.
   Do sprawdzenia przez właścicieli: zgody wspólnoty / regulamin ogródków, MPZP i przepisy o odległości od granicy (2,20 m przy płocie), prąd do warsztatu.
+
+- Ogródek „warzywnik” (22.11.2026, propozycja, v:'all'): skrzynie podwyższone 80 cm szer., 75 cm wys. w L przy płocie po prawej (x≈0) i tylnym,
+  środek wolny (trawa ok. 2,8×3,2 m): `gPom` pomidory 240×80 (x −0,10–2,30, z 11,35–12,15), `gPap` papryki 200×80 (x −0,10–0,70, z 9,35–11,35),
+  `gTrusk` wieża truskawkowa Ø60, wys. 110 (x 0,15–0,75, z 8,45–9,05) blisko tarasu. Lewy tylny narożnik wolny (drzewo usunięte 22.11.2026).
 
 ## Pomysły na dalsze kroki
 - Łóżko vs sofa rozkładana.
